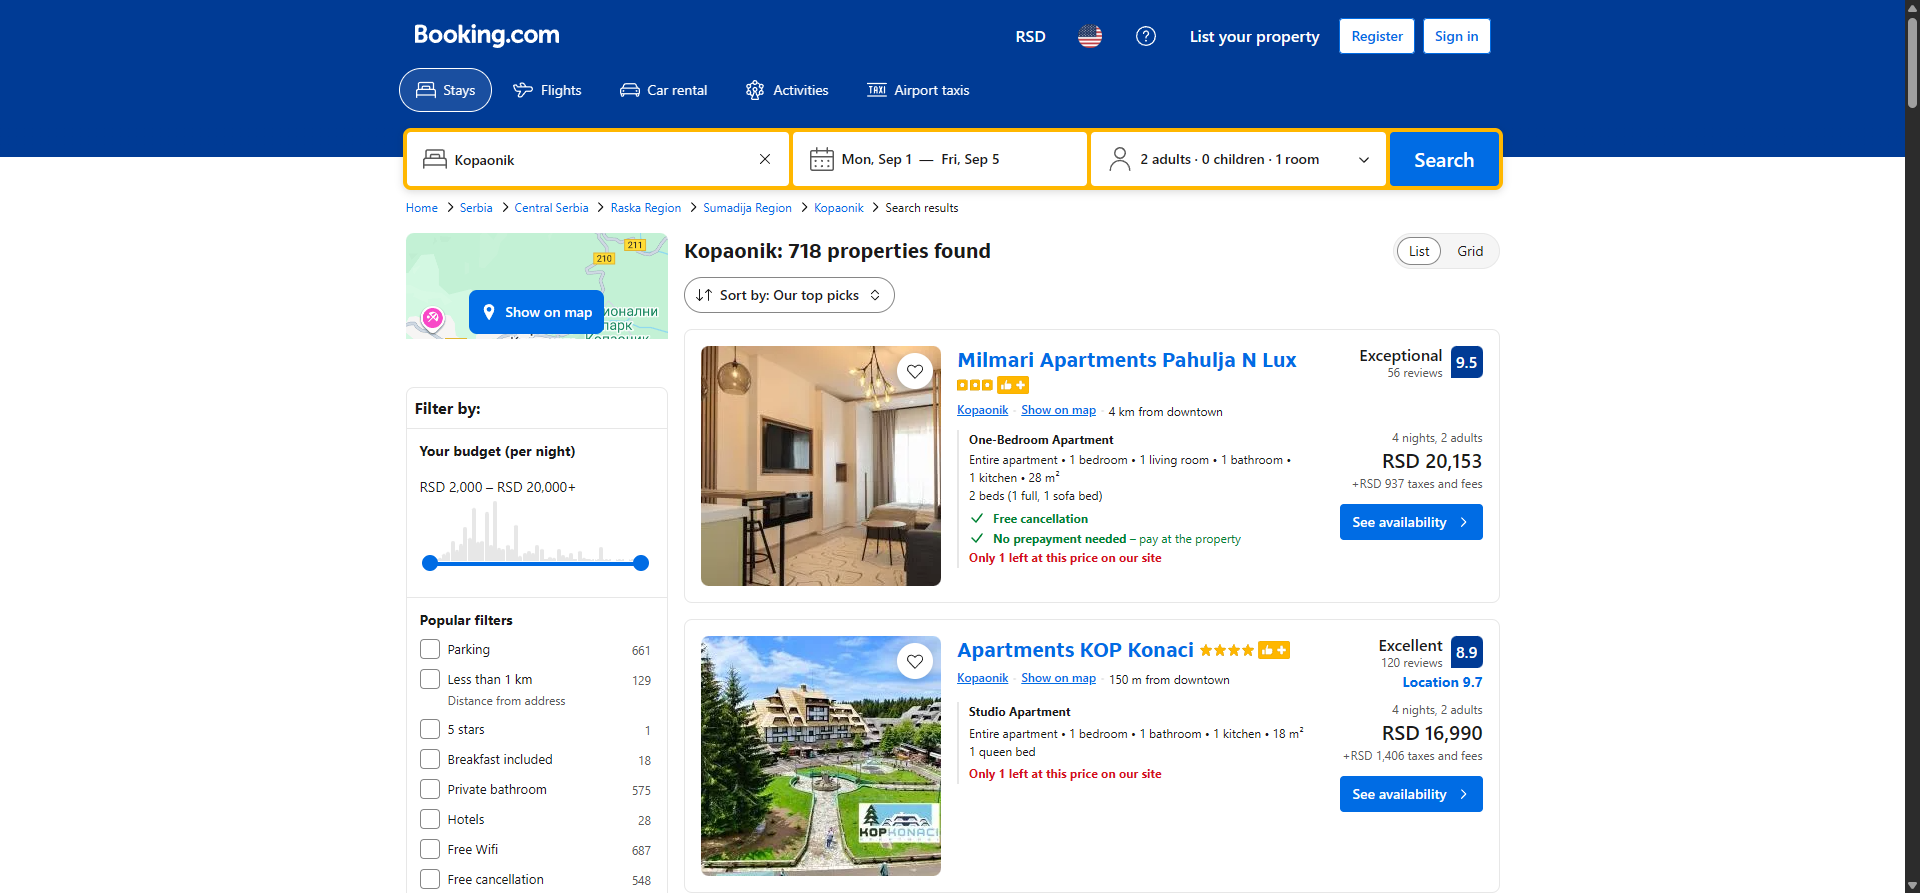
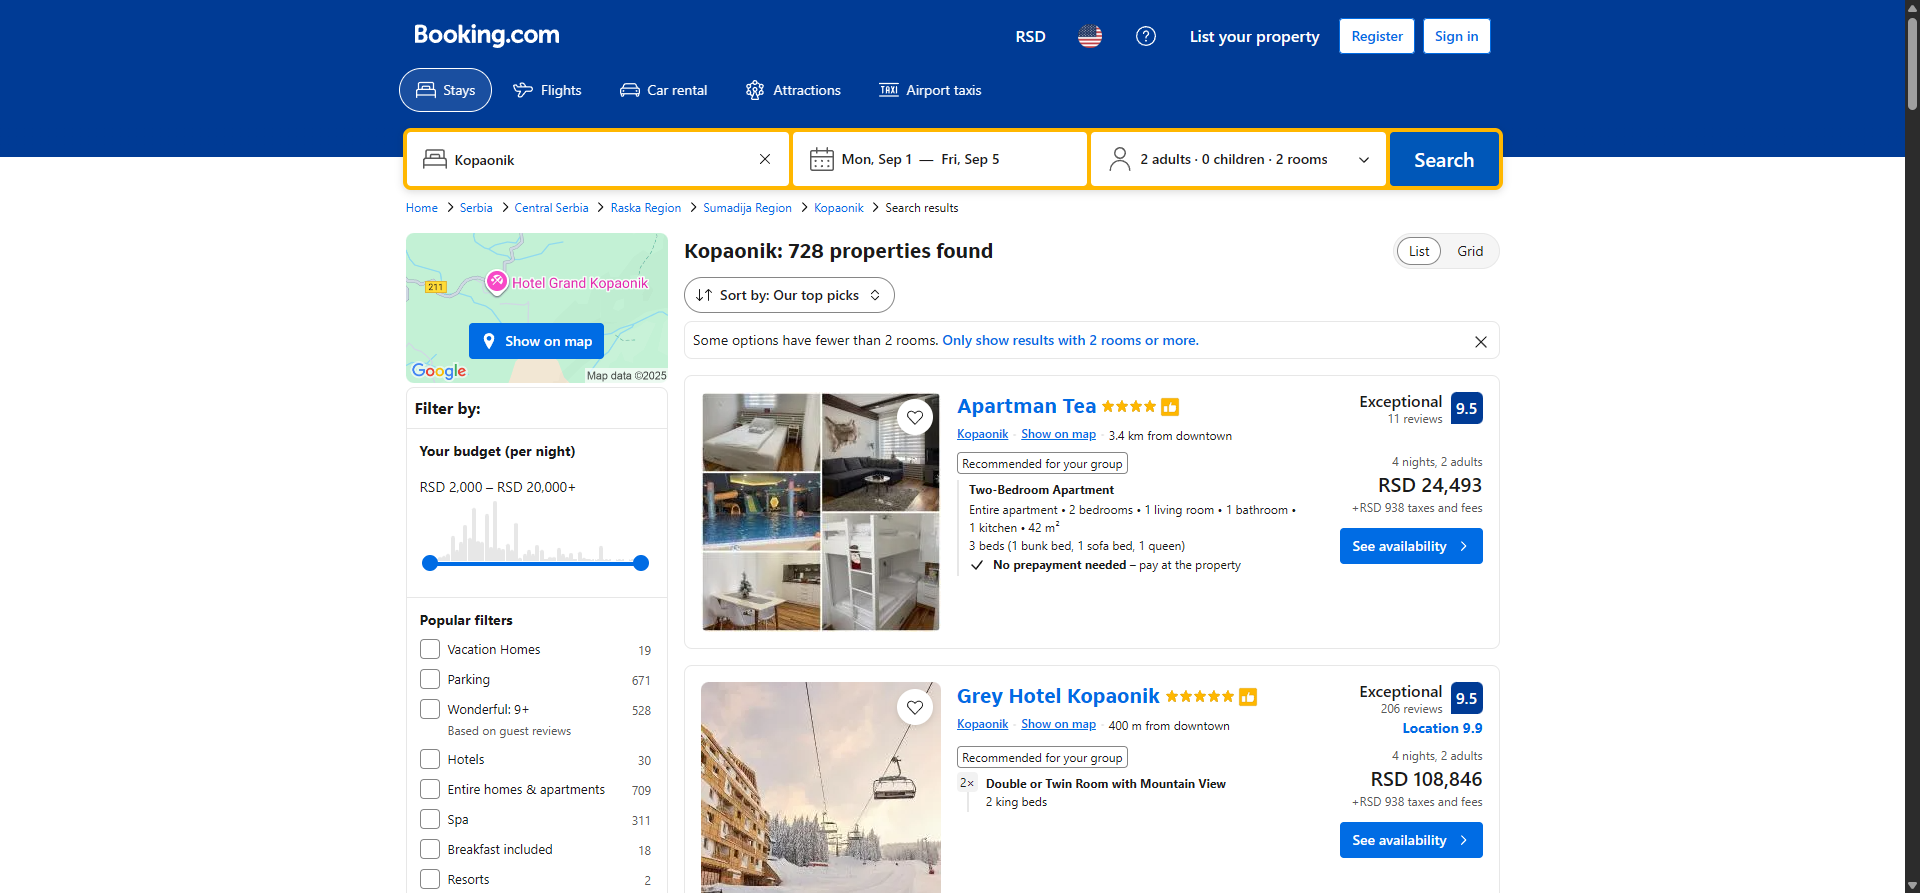
Added to the test searchPlace to select the number of guests and the number of rooms.

diff --git a/src/test/java/pages/HomePagePF.java b/src/test/java/pages/HomePagePF.java
@@ -1,14 +1,21 @@
 package pages;
 
 import org.openqa.selenium.By;
+import org.openqa.selenium.JavascriptExecutor;
 import org.openqa.selenium.WebDriver;
 import org.openqa.selenium.WebElement;
 import org.openqa.selenium.support.FindBy;
 import org.openqa.selenium.support.PageFactory;
 import org.openqa.selenium.support.ui.ExpectedConditions;
+import org.openqa.selenium.support.ui.Select;
 import org.openqa.selenium.support.ui.WebDriverWait;
 
+import javax.lang.model.element.Element;
+import java.sql.Driver;
 import java.time.Duration;
+import java.util.ArrayList;
+import java.util.Collections;
+import java.util.List;
 
 
 public class HomePagePF extends BasePage {
@@ -29,6 +36,9 @@ public class HomePagePF extends BasePage {
 
     @FindBy(css ="[data-testid='occupancy-config']")
     WebElement numOfAdultChildrenRoom;
+
+    @FindBy(css = "[data-testid='header-logo']")
+    WebElement homeButton;
 
 
     //       - Odabir mesta
@@ -56,24 +66,87 @@ public class HomePagePF extends BasePage {
 //
 //        if(polje && adultText){}
 //    }
-//    public void selectPeopleAndRooms(String people, String room)throws Exception {
-////        Thread.sleep(200);
-//        WebDriverWait webDriverWait1 = new WebDriverWait(driver, Duration.ofSeconds(5));  //cekaj da odabere
-//        webDriverWait1.until(ExpectedConditions.elementToBeClickable(numOfPeopleAndRooms)); // cekaj da se ispune uslovi, da bude klikabilan
-//        click(numOfPeopleAndRooms);
-//        click(driver.findElement(By.cssSelector("span=\""+people+"\"")),"People check : "+people);
-//        click(driver.findElement(By.cssSelector("[data-date=\""+dateOffCheck+"\"]")),"Date off : "+dateOffCheck);
-//    }
+
+public void selectAdultsChildrenRooms(int targetAdultsValue, int targetChildrenValue, int targetRoomsValue) throws InterruptedException {
+    Thread.sleep(200);
+    click(numOfAdultChildrenRoom);
+    List<WebElement> listElements =  driver.findElements(By.cssSelector(".e484bb5b7a"));  //ceo deo
+
+    int currentAdultsValue = Integer.parseInt(listElements.get(0).findElement(By.cssSelector(".e32aa465fd")).getText());
+    List<WebElement> adultsPlusMinus = listElements.get(0).findElements(By.cssSelector("[type='button']"));
+    if(targetAdultsValue > currentAdultsValue){
+        for (int i = 0; i < targetAdultsValue - currentAdultsValue; i++){
+            //+
+            click(adultsPlusMinus.get(1));
+        }
+    }else if(targetAdultsValue < currentAdultsValue)
+    {
+        for (int i = 0; i < currentAdultsValue - targetAdultsValue; i++){
+            //-
+            click(adultsPlusMinus.get(0));
+        }
+    }
+
+    int currentChildrenValue = Integer.parseInt(listElements.get(1).findElement(By.cssSelector(".e32aa465fd")).getText());
+    List<WebElement> childrenPlusMinus = listElements.get(1).findElements(By.cssSelector("[type='button']"));
+    if(targetChildrenValue > currentChildrenValue){
+        for (int i = 0; i < targetChildrenValue - currentChildrenValue; i++){
+            //+
+            click(childrenPlusMinus.get(1));
+        }
+    }else if(targetChildrenValue < currentChildrenValue)
+    {
+        for (int i = 0; i < currentChildrenValue - targetChildrenValue; i++){
+            //-
+            click(childrenPlusMinus.get(0));
+        }
+    }
+
+    int currentRoomsValue = Integer.parseInt(listElements.get(2).findElement(By.cssSelector(".e32aa465fd")).getText());
+    List<WebElement> roomsPlusMinus = listElements.get(2).findElements(By.cssSelector("[type='button']"));
+    if(targetRoomsValue > currentRoomsValue){
+        for (int i = 0; i < targetRoomsValue - currentRoomsValue; i++){
+            //+
+            click(roomsPlusMinus.get(1));
+        }
+    }else if(targetRoomsValue < currentRoomsValue)
+    {
+        for (int i = 0; i < currentRoomsValue - targetRoomsValue; i++){
+            //-
+            click(roomsPlusMinus.get(0));
+        }
+    }
+}
 
     //        - Slanje upita
     public void clickOnSearchButton(){
         searchButton.click();
     }
 
-    public void searchPlace(String place, String dateOn, String dateOff) throws Exception {
+//    public void goToHomePage() throws InterruptedException {
+//        Thread.sleep(200);
+//        homeButton.click();
+//    }
+
+    public void scrollDown() throws InterruptedException {
+        Thread.sleep(7000);
+        JavascriptExecutor jse = (JavascriptExecutor)driver;
+        jse.executeScript("window.scrollBy(0,1150)");
+        Thread.sleep(7000);
+
+    }
+
+    public void searchPlace(String place, String dateOn, String dateOff,int targetAdultsValue, int targetChildrenValue, int targetRoomsValue) throws Exception {
         selectPlaces(place);
         selectDate(dateOn, dateOff);
-//        selectDateOff(dateOff);
+        //selectDateOff(dateOff);
+//        selectAdultsChildrenRooms();
+        selectAdultsChildrenRooms(targetAdultsValue,targetChildrenValue,targetRoomsValue);
         clickOnSearchButton();
+    }
+
+    public void verifyMenuItems() throws InterruptedException {
+//        goToHomePage();
+        scrollDown();
     }
 }

diff --git a/src/test/java/tests/bookingSearch.java b/src/test/java/tests/bookingSearch.java
@@ -32,7 +32,15 @@ public class bookingSearch extends BaseTest{
     public void searchPlace(String env) throws Exception {
         openApp(env);
         HomePagePF homePagePF = new HomePagePF(driver);
-        homePagePF.searchPlace("Kopaonik", "2025-09-01", "2025-09-05");
-        Assert.assertEquals(driver.findElement(By.cssSelector("[aria-label='Search results updated. Kopaonik: 718 properties found. Sorted by: Our top picks.']")).getText(), "Kopaonik: 718 properties found");
+        homePagePF.searchPlace("Kopaonik", "2025-09-01", "2025-09-05", 2,0,2);
+        Assert.assertEquals(driver.findElement(By.cssSelector("[aria-label='Search results updated. Kopaonik: 728 properties found. Sorted by: Our top picks.']")).getText(), "Kopaonik: 728 properties found");
     }
+
+//    @Test
+//    @Parameters({"env"})
+//    public void verifyMenuItems(String env) throws Exception {
+//        openApp(env);
+//        HomePagePF homePagePF = new HomePagePF(driver);
+//        homePagePF.verifyMenuItems();
+//    }
 }

diff --git a/src/test/java/pages/BasePage.java b/src/test/java/pages/BasePage.java
@@ -22,14 +22,14 @@ public class BasePage {
         this.driver = driver;
         PageFactory.initElements(driver,this);
     }
-
-    @FindBy(css = ".Header_logo'")
-    WebElement homeButton;
-
-    public void goToHomePage(){
-
-        homeButton.click();
-    }
+//
+//    @FindBy(css = ".Header_logo'")
+//    WebElement homeButton;
+//
+//    public void goToHomePage(){
+//
+//        homeButton.click();
+//    }
 
     WebDriverWait webDriverWait;
 
